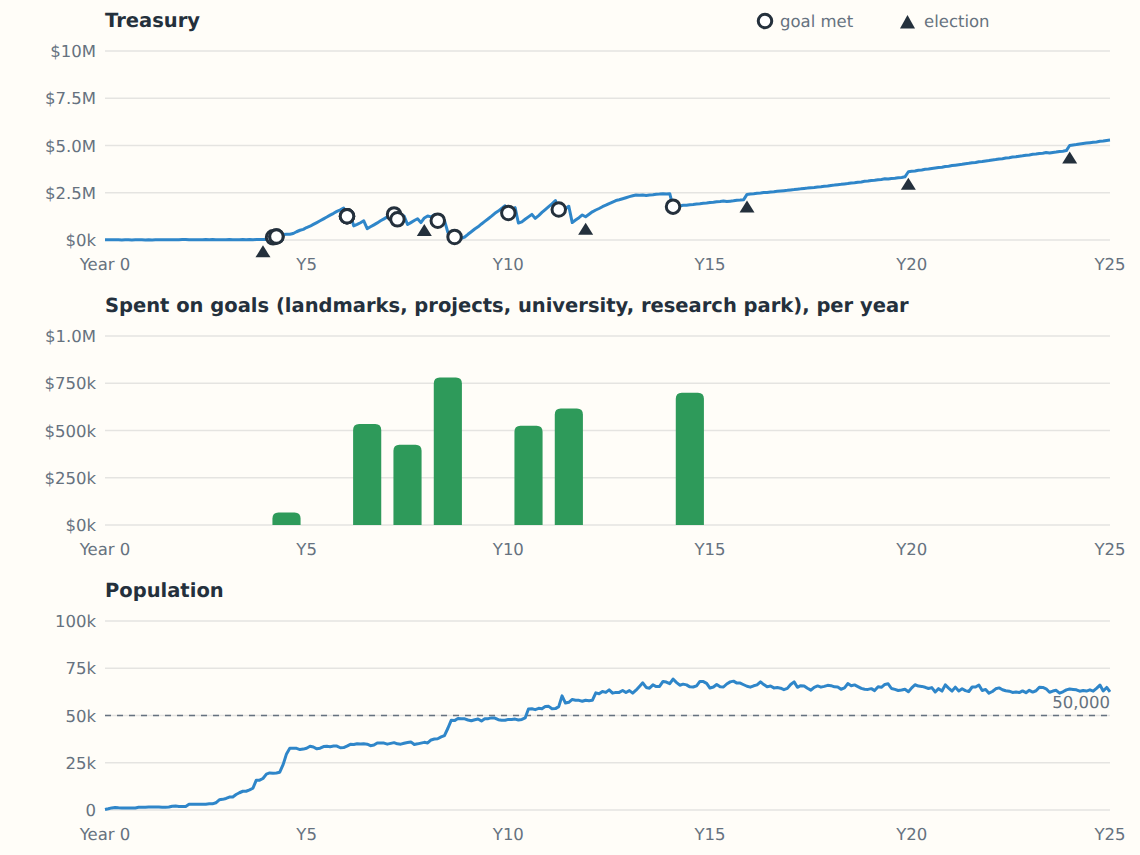
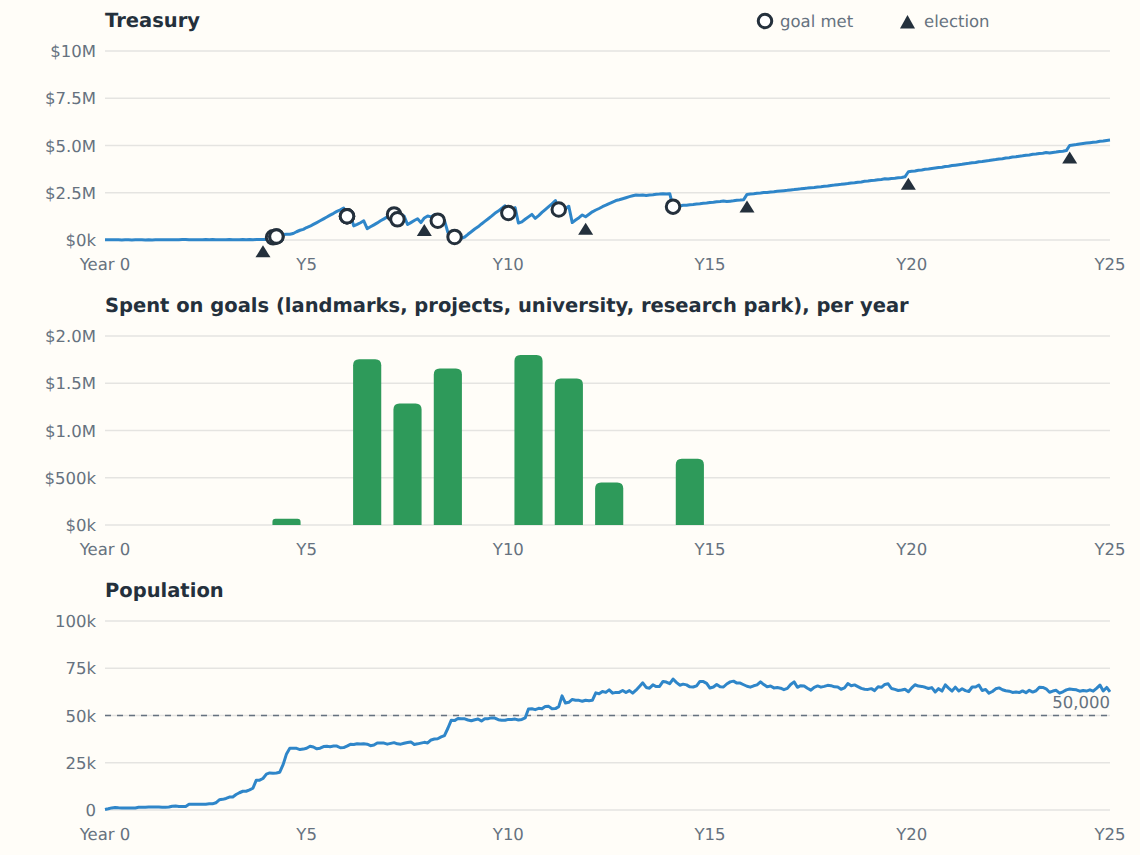
M17: balance counts every project stage; money chart, bench and balance numbers
Claude-Session: https://claude.ai/code/session_01XW8DbmKrRef35JRd9CiaPb

diff --git a/scripts/balance.ts b/scripts/balance.ts
@@ -683,13 +683,15 @@ class Player {
     return this.sim.state.election.promises.some((p) => p.id === 'taxes');
   }
 
-  private ledgerSeen = 0;
+  private ledgerSeen = -1;
 
   sample(): Sample {
-    // Every project stage paid in the months closed since the last sample.
-    const h = this.sim.state.economy.history;
-    for (; this.ledgerSeen < h.length; this.ledgerSeen++)
-      this.goalSpend -= h[this.ledgerSeen]!.lines.projects ?? 0;
+    // Every project stage paid in the months closed since the last sample (the ledger keeps 24).
+    for (const m of this.sim.state.economy.history)
+      if (m.month > this.ledgerSeen) {
+        this.goalSpend -= m.lines.projects ?? 0;
+        this.ledgerSeen = m.month;
+      }
     const s = this.stats();
     return {
       month: this.month(),

diff --git a/PROGRESS.md b/PROGRESS.md
@@ -110,6 +110,7 @@ e2e specs pass (M16's rerun after the full run, see DECISIONS), 174 unit tests.
 - Towns without services stagnate and slowly lose residents (the neglectful balance run); that's intended, but it could be clearer to a new player why.
 - Commercial demand runs negative once a town has zoned a strip of shops in every district (shoppers vs. shops); the careful balance mayor now zones shops only while they're wanted. Big cities run short of jobs rather than homes: industry demand stays high once the map is full.
 - Visitors (M10) are counted, spend money and shop, but don't drive through the traffic model yet.
+- Once a big city has bought every project and landmark it can reach, its treasury still creeps up (≈ $0.3M a year for the careful mayor at 2 % taxes); later milestones add things to buy.
 - Growth to 100k residents is exercised by the large-city benchmark (a sandbox grid); the scripted careful mayor fills the river map at about 67k (M17).
 - Tree count is high in forests (~25k in-map); LOD switches to low-poly beyond 750 m.
 - Cutting faces and embankments read softly: the terrain is 8 m height samples, so a 1:1 cut face shows as a brown bank over one cell rather than a crisp edge.
@@ -118,7 +119,8 @@ e2e specs pass (M16's rerun after the full run, see DECISIONS), 174 unit tests.
 - Undo refuses (with a toast saying why) when the city has changed underneath: buildings grown on an unzoned strip, a road now carrying traffic incidents, and so on; the change stays and the history moves past it.
 - The benchmark grid still fails 5 avenue links whose junctions differ in height by more than 12 % of their length, and 26 bridges without land for ramps (81 failures before M13).
 
-## Performance (latest: M16)
+## Performance (latest: M17)
+- `bench.ts 8 --big` (M17): at 97–111k tick avg 0.61–0.92 ms, p99 5–8 ms, worst per month 7–15 ms (66.8 ms once in month 1 at 639 residents, the known cold start). `balance.ts 25` (the careful mayor now plans the whole map, so its numbers aren't comparable with M16's): careful 62,561 / 75 % at year 20 (passes 50k in year 11, peak 67.7k), all five projects open, six elections won; greedy 234 / 16 %, neglectful 288 / 41 % at year 20 (both lose every election). Chart of the careful mayor's money: `docs/screenshots/m17-money.png`.
 - `bench.ts 8 --big` (M16; history recorded each month): at 97–111k tick avg 0.65–1.02 ms, p99 5–10 ms. Worst per month 8–17 ms in a profiled run (month-start work now timed separately); an unprofiled run the same hour had one-off 92 ms (month 4) and 64 ms (month 6) ticks that the profiled rerun didn't reproduce (GC or the VM; watch for it). `balance.ts 20`: careful 18,906 / 68 % (treasury $9.8M by year 20: the surplus M17 has to find uses for), greedy 102 / 14 %, neglectful 346 / 38 %, identical to M15.
 - M15 changes no sim code; reruns match M14. `bench.ts 8 --big` at 97–111k: tick avg 0.87–1.15 ms, p99 7–10 ms, worst per month 11–20 ms; `balance.ts 20`: careful 18,906 / 68 %, greedy 102 / 14 %, neglectful 346 / 38 % (identical).
 - `npx tsx scripts/bench.ts 30 --big` (M14): ~111k residents by month 5. At 97–111k: tick avg 0.91–1.28 ms, p99 7–11 ms, worst per month 10–21 ms. No regression from M14 (it changes no tick system): an A/B run back to back on this VM gave M13 code 0.83–1.22 ms / worst 10–17 ms and M14 0.91–1.20 ms / 10–20 ms, with identical populations. The VM measures about 25 % slower today than when M13 was logged (M13: 0.69–0.96 ms, worst 7–15 ms; M12: 0.68–0.81 ms and 11–14 ms at 84–110k). One-off 65–85 ms ticks in the first game hour of a freshly built big city (cold caches, JIT).

diff --git a/docs/DECISIONS.md b/docs/DECISIONS.md
@@ -267,3 +267,4 @@ One line each: what was decided and why. Newest at the bottom of each section.
 - The late-game retune only touches what unlocks at 20,000 residents or later: the five projects cost $1.2M–$2.0M (were $450k–$700k in the first draft) with $6k–$12k a month upkeep once open, and the conservatory, sky needle and grand arch (40k, 70k, 100k) cost $350k, $700k and $1.2M with $1.6k–$3.6k upkeep. Their running costs are the lasting sink: together they come to about what a 50k city nets at 6 % taxes, so a city that builds everything runs close to even and has the tax rate as its lever. Nothing below 20k changed, so the early and mid game are exactly as before (the balance runs' first four years are unchanged).
 - The helio array costs more to run than a nuclear plant for less power: it's a prestige project that arrives at 20k (nuclear at 40k) with no meltdown risk or waste, not the cheapest power.
 - The balance tool's careful mayor (not the game) was extended to plan the whole map: district slots on both banks and farther up and down the map, river crossings split where a single bridge has no land for its ramps, a quarter reserved at 8,000 residents for landmarks and projects, shops zoned only while wanted, industry on the south side and on empty home lots when jobs are short (big cities run out of jobs before homes), side streets widened into avenues once high-rises unlock, one police and fire station per 5,000 residents, spending goals in order with a reserve of three months' running costs, promises it can keep (no tax rises, plus jobs or a new hospital), and, once its goals are met, taxes cut a point every six months down to 2 %. It only builds on roads joined to the highway: on seed s1 it had put pumps on a cut-off stretch, and 180 homes stood abandoned without water while the city's total supply looked ample.
+- Result (`balance.ts 25`, seed `balance`): the careful mayor passes 50k in year 11 and peaks at 67.7k when the map is full, opens all five projects, and spends $9.2M on goals in years 5–15 with its treasury between $0.2M and $2.4M. After the sky needle nothing is left to buy (the grand arch needs 100k, more than this map holds), taxes are down to 2 % and the treasury rises about $0.3M a year, much of it the election grants. That slope was left: a floor of 1 % turns it into a slow decline, and phase 2's later milestones (rail, districts, the airport and seaport) add late-game things to buy.

diff --git a/docs/SPEC_REVIEW.md b/docs/SPEC_REVIEW.md
@@ -174,3 +174,4 @@ Each phase-2 milestone mapped to where it's done. Filled in as milestones comple
 | New saved state: version bump, migration and a test | save v15 (`matchDay`, `election`, `Civic.build`); migration 14 → 15 schedules elections from the next four-year mark; `tests/elections.test.ts` loads the version-10 playtest save and plays on |
 | Careful mayor plans the whole map and grows past 50k | `scripts/balance.ts`: 20 district slots on both banks with river crossings, zoning that follows demand (industry when jobs are short, shops only while wanted), side streets widened to avenues after high-rises unlock, a quarter kept for landmarks and projects, services scaled with the city |
 | Late-game economy retuned so projects, landmarks and specialisations soak up the surplus | project prices and upkeep, and the 40k+ landmarks (conservatory, sky needle, grand arch), raised; nothing below 20k changed (DECISIONS M17) |
+| Done when: the careful mayor passes 50k, completes a big project and wins an election in the balance run, and its late-game money curve shows spending goals met rather than an ever-growing pile | `npx tsx scripts/balance.ts 25` (seed `balance`): the careful mayor passes 50k in year 11 (peak 67.7k in year 14); opens all five projects (stadium year 7 … launch complex year 13) plus every landmark up to the sky needle; wins all six elections (62–80 %) on kept promises. Its treasury holds between $0.2M and $2.4M through the years it spends $9.2M on goals (years 5–15), then rises about $0.3M a year at 2 % taxes once none are left (before the retune: $10.4M by year 20). Chart: `docs/screenshots/m17-money.png` (`scripts/dev/moneychart.mjs`). On seed `s1` it reaches 75k with three projects |
